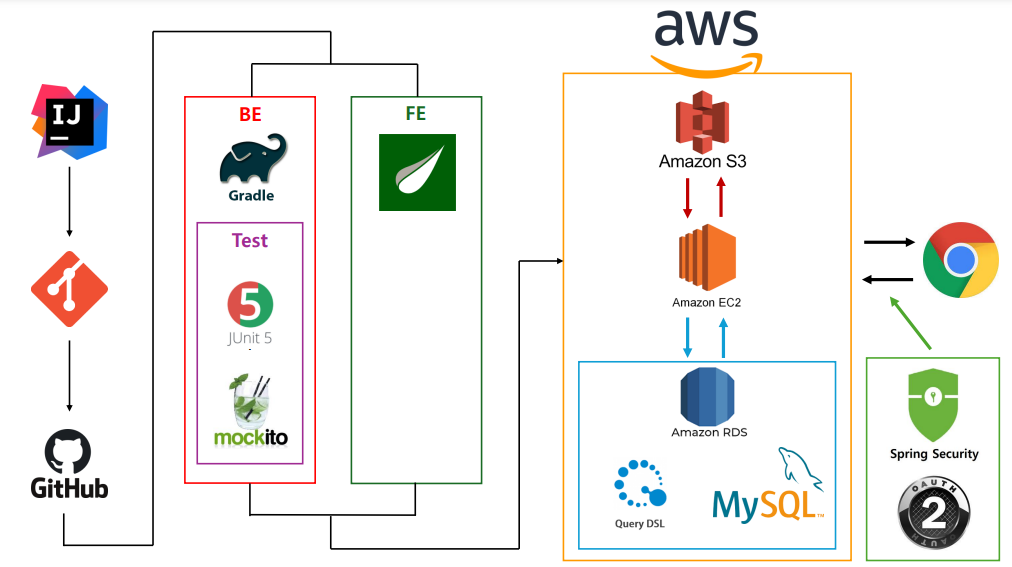
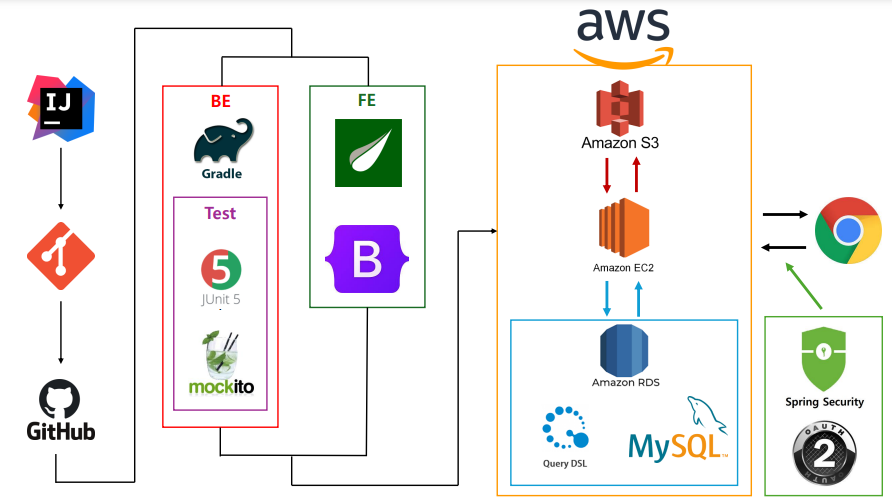
[DOCS] 리드미 이미지 수정 및 내용 추가

diff --git a/src/main/resources/static/css/docs.css b/src/main/resources/static/css/docs.css
@@ -1,0 +1,26 @@
+body {
+    font-family: Arial, sans-serif;
+}
+.section {
+    margin-top: 20px;
+}
+.section-title {
+    color: #FFFFFF;
+    font-size: 24px;
+    margin-bottom: 10px;
+}
+.team-table {
+    width: 100%;
+    border-collapse: collapse;
+}
+.team-table th, .team-table td {
+    border: 1px solid #ddd;
+    padding: 8px;
+    text-align: center;
+}
+.team-table th {
+    background-color: #f2f2f2;
+}
+.member-github {
+    color: #0645AD;
+    text-decoration: none;}

diff --git a/README.md b/README.md
@@ -1,35 +1,7 @@
 <!DOCTYPE html>
 <html>
 <head>
-  <style>
-    body {
-      font-family: Arial, sans-serif;
-    }
-    .section {
-      margin-top: 20px;
-    }
-    .section-title {
-      color: #FFFFFF;
-      font-size: 24px;
-      margin-bottom: 10px;
-    }
-    .team-table {
-      width: 100%;
-      border-collapse: collapse;
-    }
-    .team-table th, .team-table td {
-      border: 1px solid #ddd;
-      padding: 8px;
-      text-align: center;
-    }
-    .team-table th {
-      background-color: #f2f2f2;
-    }
-    .member-github {
-      color: #0645AD;
-      text-decoration: none;
-    }
-  </style>
+    <link rel="stylesheet" type="text/css" href="src/main/resources/static/css/docs.css">
 </head>
 <body>
 
@@ -68,13 +40,13 @@
         프로젝트 기간  03/25 ~ 04/08 <br>
     </p>
     <p class="section-content">
-    HELL-LOW 는(Helping Everyone Live Longer & Lifestyle Online Wellness) 의 약자로 건강한 휘트니스 문화를 선도하기 위한 온라인 커뮤니티 사이트 입니다. HELL-LOW의 핵심 목적은 사용자 간 정보 공유를 통한 건강한 생활 습관을 장려.
+    HELL-LOW 는(Helping Everyone Live Longer & Lifestyle Online Wellness) 의 약자로 건강한 휘트니스 문화를 선도하기 위한 온라인 커뮤니티 사이트 입니다. HELL-LOW의 핵심 목적은 사용자 간 정보 공유를 통한 건강한 생활 습관을 장려입니다.
     </p>
 </div>
 
 <div class="section">
   <h2 class="section-title">💻 사용한 기술 스택</h2>
-  <img src="" alt="사용 기술 이미지" class="image-placeholder">
+  <img src="docs/images/tech.png" alt="사용 기술 이미지" class="image-placeholder">
 </div>
 
 <div class="section">
@@ -88,7 +60,7 @@
   <p class="section-content">
     <ul>
       <li>main : 배포 시 사용.</li>
-      <li>develop : 완전히 개발이 끝난 부분에 대해서 Merge를 진행</li>
+      <li>develop : 완전히 개발이 끝난 부분에 대해서 Merge를 진행.</li>
       <li>feature : 기능 개발을 진행할 때 사용.</li>
     </ul>
   </p>
@@ -107,9 +79,20 @@
 </div>
 
 <div class="section">
-  <h2 class="section-title">📝 PR (Pull Request) 규칙</h2>
-  <p class="section-content">a</p>
+  <h2 class="section-title">📄 API 명세서</h2>
+  <a href="[https://www.notion.so/oreumi/API-5009803210a8464081d36c84d9c7ec9a]" class="link-placeholder">API 명세서 상세 보기</a>
 </div>
+
+<div class="section">
+  <h2 class="section-title">📝 PR (Pull Request) 규칙</h2>
+  <ul class="section-content">
+    <li>feature/이슈내용_작성자명 의 브랜치명으로 생성 후 작업한 다음 PR을 날립니다.</li>
+    <li>리뷰 후 리팩토링이 필요하다면 추가로 feature/리팩토링 내용_작성자명 진행합니다.</li>
+    <li>모든 PR은 반드시 지정한 리뷰어에게 코드리뷰를 받아야만 합니다.</li>
+    <li>리뷰어 중 1명 이상의 Approve 를 받아야 Merge pull request 를 할 수 있습니다.</li>
+  </ul>
+</div>
+
 
 <div class="section">
   <h2 class="section-title">🚀  배포 주소</h2>
